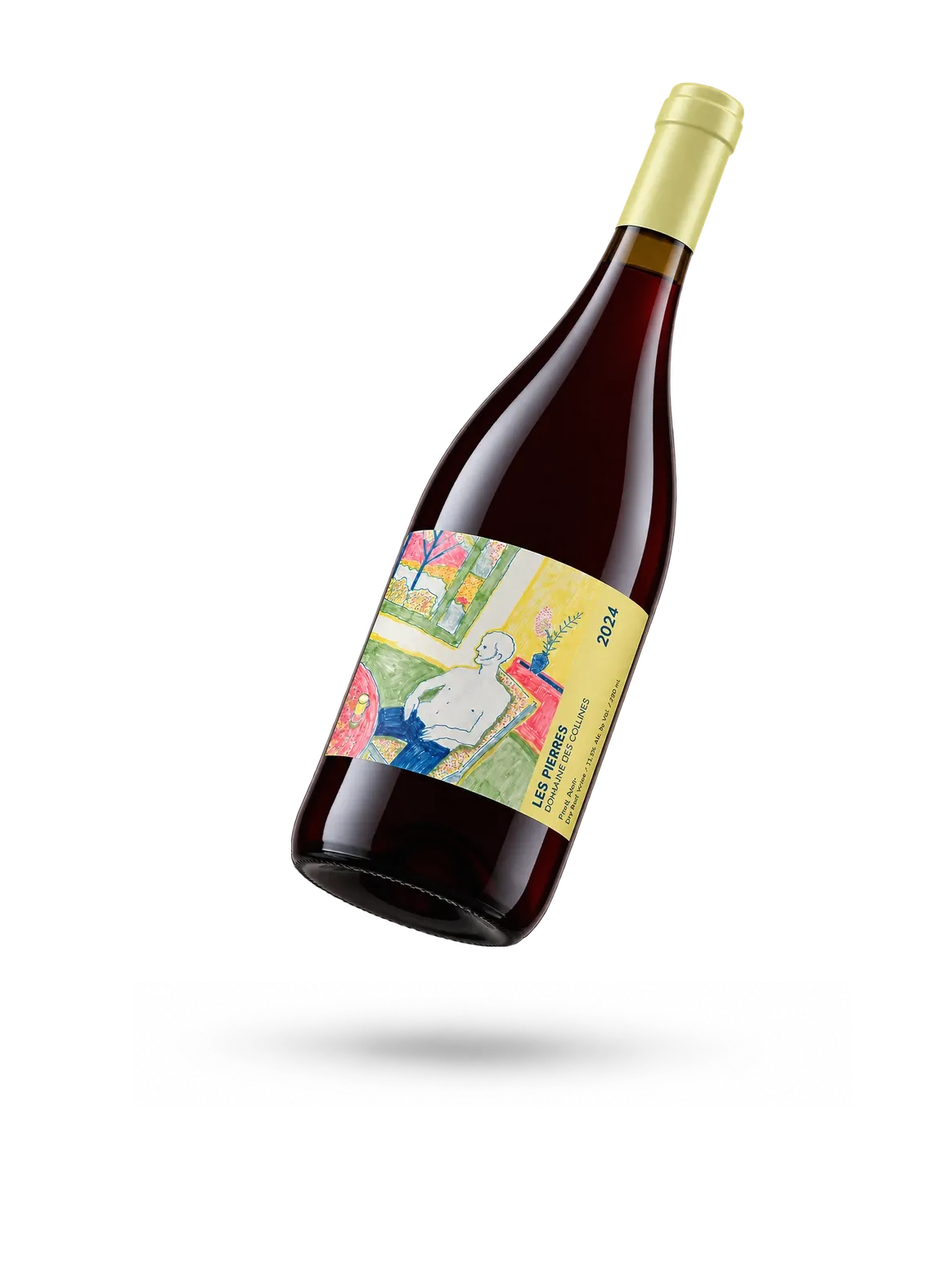
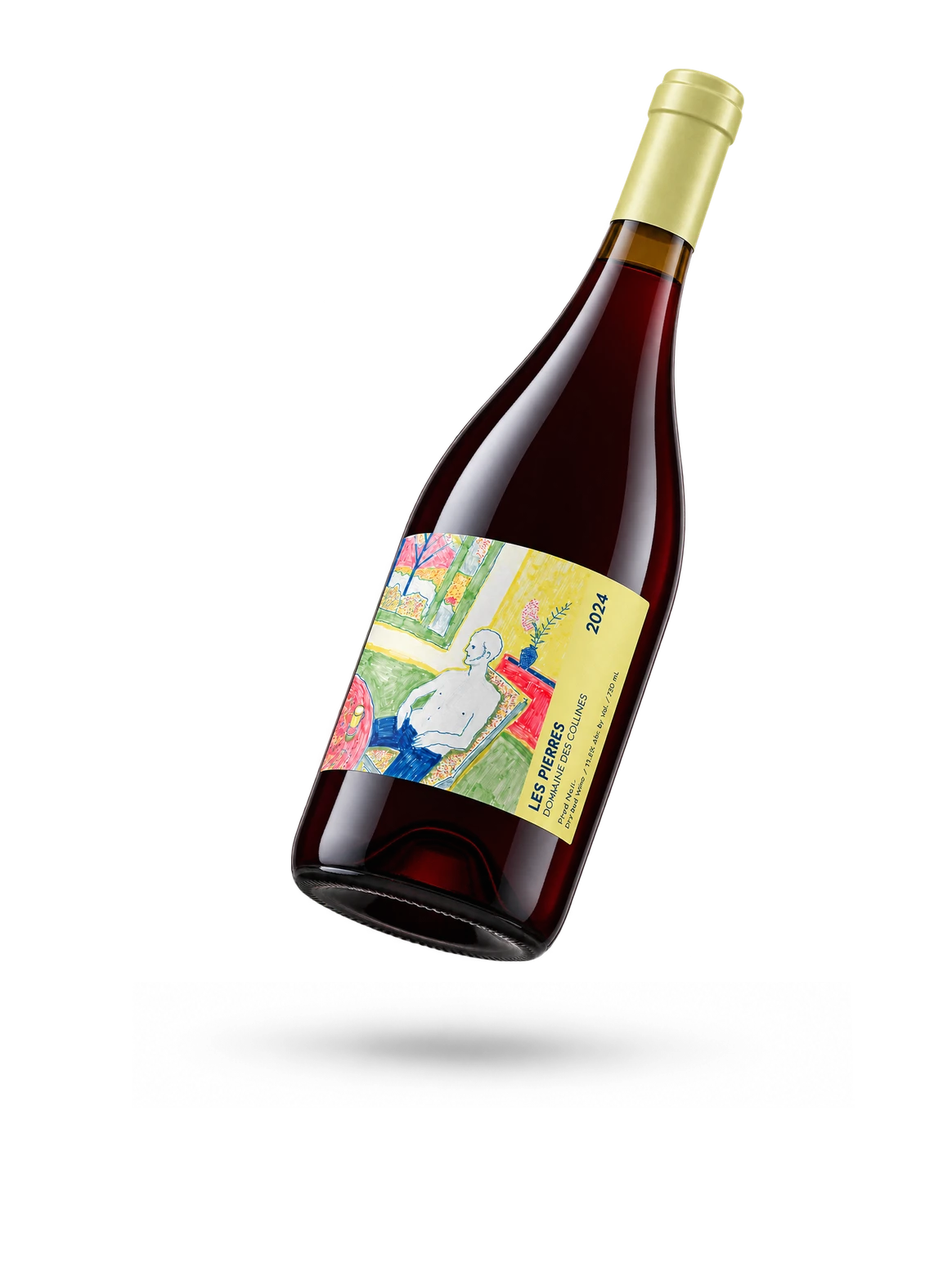
Cover bottles turned like the original and sliding over the corner; Inspired by on the cover; one smaller carousel arrow everywhere; horses carousel centred with a row of picks and a roulette dice; gallery rings fixed

Changed region(s): [[0.3093, 0.0308, 0.8041, 0.7712]]

diff --git a/src/app/page.tsx b/src/app/page.tsx
@@ -526,19 +526,6 @@ async function groundOf(url: string): Promise<string> {
   });
 }
 
-/* the dice's throws reach the LATEST taste page (the roll itself was set
-   going by an earlier render, which knows an older ring) — 2026-09-30 */
-function TasteThrow({ onThrow }: { onThrow: () => void }) {
-  const ref = useRef(onThrow);
-  ref.current = onThrow;
-  useEffect(() => {
-    const h = () => ref.current();
-    document.addEventListener("nui-taste-throw", h);
-    return () => document.removeEventListener("nui-taste-throw", h);
-  }, []);
-  return null;
-}
-
 export default function NewUI() {
   const [page, setPage] = useState<PageKey>("welcome");
   /* dev aid: /?page=bottle jumps straight to a page (no generation needed) */
@@ -2886,6 +2873,19 @@ const sleep = (ms: number) => new Promise((r) => setTimeout(r, ms));
       </button>
     );
   };
+  /* 2026-09-30 (owner): ONE arrow for every carousel — the labels page's,
+     30 % smaller (17.64 × 23.52) — placed by its TIP, so a carousel's two
+     tips stand the same distance from its middle */
+  const carArrow = (lab: string, dir: -1 | 1, tipX: number, cy: number, onClick: () => void) => {
+    const k = 0.98, w = 18 * k, h = 22 * k, sx = tipX - (dir < 0 ? 5 : 13) * k;
+    return (
+      <button key={lab} aria-label={lab} onClick={onClick}
+        style={{ ...px(sx - 13, cy - 30, w + 26, 60), ...ghost, pointerEvents: "auto", zIndex: 12, display: "flex", alignItems: "center", justifyContent: "center", cursor: "pointer" }}>
+        <svg viewBox="0 0 18 22" width={w} height={h} style={{ overflow: "visible" }}><polyline points={dir < 0 ? "13,3 5,11 13,19" : "5,3 13,11 5,19"} fill="none" stroke="#111" strokeWidth="1.6" /></svg>
+      </button>
+    );
+  };
+  const ARROW_OUT = 47.6;   /* a page-wide carousel's tips stand this far outside the margins */
   const cross = (cx: number, cy: number, key: string, thick = false) => (
     /* thick arms = 33px, matching the baked st14 pluses (532.06→565.02).
        Round 85 #7: hairline arms on the half-pixel, crisp, so the plus
@@ -3053,6 +3053,9 @@ const sleep = (ms: number) => new Promise((r) => setTimeout(r, ms));
       <span key={k} style={{ position: "absolute", left: 0, top: 0, width: W, height: H, pointerEvents: "none", transformOrigin: `${B0}px ${BY}px`, transform: `translateX(${137.14 - B0}px) scale(${BS})` }}>{kids}</span>
     );
     const cf = CP.front;
+    /* a long idea is set a little smaller, so it and "Inspired by" keep clear of the details */
+    const visLong = (lang === "ge" ? CP.visionGe : CP.vision).length > (lang === "ge" ? 190 : 200);
+    const visFs = lang === "ge" ? (visLong ? 7.1 : 7.9) : (visLong ? 8.1 : 8.99), visLh = lang === "ge" ? (visLong ? 8.7 : 9.6) : (visLong ? 9.7 : 10.79);
     const DETAILS: [string, string][] = ([
       ["Producer:", cf.producer], ["Wine Name:", cf.wine], ["Vintage:", cf.vintage], ["Grape Variety:", cf.grape],
       ["Region, Country:", cf.regionCountry], ["Special mention:", cf.special], ["Sweetness:", cf.sweetness], ["Colour:", cf.colour],
@@ -3077,7 +3080,9 @@ const sleep = (ms: number) => new Promise((r) => setTimeout(r, ms));
         </svg>
         {/* the Georgian story runs longer — set a touch smaller so it keeps the
             same air above the details as the English */}
-        <span style={{ ...px(152.6, baseTop(381.07, lang === "ge" ? 7.9 : 8.99), 222, 58), font: `${lang === "ge" ? 7.9 : 8.99}px ${HNW}`, lineHeight: lang === "ge" ? "9.6px" : "10.79px", color: "#000" }}>{lang === "ge" ? CP.visionGe : CP.vision}</span>
+        <span style={{ ...px(152.6, baseTop(381.07, lang === "ge" ? 7.9 : 8.99), 222, 58), font: `${visFs}px ${HNW}`, lineHeight: `${visLh}px`, color: "#000" }}>{lang === "ge" ? CP.visionGe : CP.vision}
+          {/* 2026-09-30 (owner): whose style inspired the chosen label */}
+          <span style={{ display: "block", marginTop: lang === "ge" ? 2 : 3, fontStyle: "italic" }}><b style={{ fontStyle: "normal" }}>{t("Inspired by:")}</b> {lang === "ge" ? ARTIST_GE[CP.artists[CP.chosen]] || CP.artists[CP.chosen] : CP.artists[CP.chosen]}</span></span>
         {DETAILS.map(([k, v], i) => (
           <span key={"hd" + i}>
             <span style={{ ...px(152.6, baseTop(445.44 + i * 9, 6.59), 60, 9), font: `700 6.59px ${HNW}`, lineHeight: "6.59px", color: "#000", whiteSpace: "nowrap" }}>{t(k)}</span>
@@ -3223,12 +3228,7 @@ const sleep = (ms: number) => new Promise((r) => setTimeout(r, ms));
         const cur = n ? ((galIdx % n) + n) % n : 0;
         const nameOf = (nm: string) => (lang === "ge" ? ARTIST_GE[nm] || nm : nm);
         const toggle = (nm: string | null) => { setGalIdx(0); setGalPick((p2) => (nm === null ? [] : p2.includes(nm) ? p2.filter((x) => x !== nm) : [...p2, nm])); };
-        const ring = (on: boolean) => (
-          <svg width="13" height="13" viewBox="0 0 13 13" style={{ flex: "none", position: "relative", top: 1.5 }}>
-            <circle cx="6.5" cy="6.5" r="5.9" fill="none" stroke="#111" strokeWidth="1.2" />
-            {on && <circle cx="6.5" cy="6.5" r="3.3" fill="#111" />}
-          </svg>
-        );
+        const ring = (on: boolean) => <span style={{ position: "relative", top: 1 }}>{ringSvg(14, on, { stroke: 1.3, dot: 6.5 })}</span>;
         const chip = (label: string, on: boolean, onClick: () => void, key: string) => (
           <button key={key} onClick={onClick} style={{ ...ghost, pointerEvents: "auto", display: "flex", alignItems: "center", columnGap: 7, font: `${on ? 700 : 400} 14px/14px ${HNW}`, color: "#111", whiteSpace: "nowrap", textTransform: "none", cursor: "pointer" }}>
             {ring(on)}{label}
@@ -3258,12 +3258,8 @@ const sleep = (ms: number) => new Promise((r) => setTimeout(r, ms));
             })}
           </div>
           {/* the arrows as big as the labels page's, where they stand there (owner, 2026-09-30) */}
-          {n > 1 && ([["previous image", L - 48, "13,3 5,11 13,19", -1], ["next image", R + 48 - 12, "5,3 13,11 5,19", 1]] as const).map(([lab, x, pts, d]) => (
-            <button key={lab} aria-label={lab} onClick={() => setGalIdx(cur + d)}
-              style={{ ...px(x - 30 + 6, MID - 36, 60, 72), ...ghost, pointerEvents: "auto", zIndex: 12, display: "flex", alignItems: "center", justifyContent: "center", cursor: "pointer" }}>
-              <svg viewBox="0 0 18 22" width="25.2" height="33.6" style={{ overflow: "visible" }}><polyline points={pts} fill="none" stroke="#111" strokeWidth="1.6" /></svg>
-            </button>
-          ))}
+          {n > 1 && carArrow("previous image", -1, L - ARROW_OUT, MID, () => setGalIdx(cur - 1))}
+          {n > 1 && carArrow("next image", 1, R + ARROW_OUT, MID, () => setGalIdx(cur + 1))}
           {cap && (
             <span key={"gcap" + cap.src} style={{ ...px(L, baseTop(TOP + SIZE + 22, 13), R - L, 16), font: `13px ${HNW}`, lineHeight: "13px", color: "#111", textAlign: "center", display: "block", whiteSpace: "nowrap", animation: `nuiFadeIn 400ms ${EASE} both` }}>
               {cap.artist ? (<>{t("Inspired by:")} <b>{nameOf(cap.artist)}</b> · </>) : null}{cap.wine}
@@ -3330,27 +3326,34 @@ const sleep = (ms: number) => new Promise((r) => setTimeout(r, ms));
          spins to the right and throws out one horse, a second, a third,
          then slows to a stop — about four seconds. */
       case "taste": {
+        /* 2026-09-30 (owner, later): the carousel CENTRED on the page; the
+           chosen three in a row under "Roll the dice", centred, each with an
+           X (the site's plus turned 45°) that sends it back into the middle
+           of the ring. The dice are a ROULETTE: the ring speeds up, spins
+           and slows to a stop on a random horse — the visitor picks it. */
         const byId = new Map(painters.filter((a) => a.horse).map((a) => [a.id, a]));
         const need = Math.min(3, byId.size);
         const ring = (tasteRing || []).filter((id) => byId.has(id) && !pickArtists.includes(id));
         const n = ring.length;
         const cur = n ? ((tasteCur % n) + n) % n : 0;
-        const L = 137.14, R = 1302.86, X1 = L + (R - L) * 0.75;
-        const CW = 420, CH = 280, CX = (L + X1) / 2, TOP = 206, MIDY = TOP + CH / 2;
+        const L = 137.14, R = 1302.86, CX = W / 2;
+        const CW = 375, CH = 250, TOP = 172, MIDY = TOP + CH / 2;
         const centre = { x: CX - CW / 2, y: TOP, w: CW, h: CH };
-        const SW = 225, SH = 150, SX = X1 + 20 + (R - X1 - 20 - SW) / 2;
-        const slot = (i: number) => ({ x: SX, y: 196 + i * (SH + 24), w: SW, h: SH });
+        const SEL_BASE = TOP + CH + 30;
+        const DICE = { y: SEL_BASE + 18, h: 34.3, w: 210 };
+        const SW = 165, SH = 110, GAP = 30, SY = DICE.y + DICE.h + 26;
+        const slot = (i: number) => ({ x: CX - (need * SW + (need - 1) * GAP) / 2 + i * (SW + GAP), y: SY, w: SW, h: SH });
+        const MSG_BASE = (SY + SH + PROG_Y - NEXT_R) / 2 + 4;
         const flyInto = (el: HTMLElement, from: { x: number; y: number; w: number; h: number }, to: { x: number; y: number; w: number; h: number }, ms = 640) => {
           el.animate([{ transform: `translate(${from.x - to.x}px, ${from.y - to.y}px) scale(${from.w / to.w})`, transformOrigin: "0 0" }, { transform: "translate(0, 0) scale(1)", transformOrigin: "0 0" }], { duration: ms, easing: EASE });
         };
-        const pickMid = (rolling = false) => {
+        const pickMid = () => {
           const id = ring[cur];
-          if (!id || pickArtists.length >= need) return;
+          if (!id || pickArtists.length >= need || tasteRolling.current) return;
           setTasteWarn(false);
           tasteFly.current["slot:" + id] = centre;
           setPickArtists((pa) => (pa.includes(id) || pa.length >= need ? pa : [...pa, id]));
           setTasteRing((r) => (r || []).filter((x) => x !== id));
-          if (!rolling) setTasteCur((c) => c);
         };
         const unpick = (id: string, from: { x: number; y: number; w: number; h: number }) => {
           if (tasteRolling.current) return;
@@ -3360,31 +3363,20 @@ const sleep = (ms: number) => new Promise((r) => setTimeout(r, ms));
           setTasteRing((r) => { const rr = (r || []).filter((x) => x !== id && !pickArtists.includes(x)); const at = rr.length ? ((cur % rr.length) + rr.length) % rr.length : 0; return [...rr.slice(0, at), id, ...rr.slice(at)]; });
           setTasteCur(cur);
         };
-        /* the dice: step times speed up, hold while three are thrown out,
-           then slow down — the ring turns to the right (the one on the left
-           comes into the middle) */
+        /* the roulette: every step's time on one smooth curve — long at the
+           ends, short in the middle (1 − sin)² — so it eases in and out; the
+           number of steps is random, so is the horse it stops on */
         const roll = async () => {
           if (tasteRolling.current || n < 2) return;
           tasteRolling.current = true;
           setTasteWarn(false);
-          if (pickArtists.length >= need) {
-            setTasteRing((r) => [...(r || []), ...pickArtists.filter((x) => !(r || []).includes(x))]);
-            setPickArtists([]);
-            await sleep(60);
+          const N = 18 + Math.floor(Math.random() * n);
+          for (let i = 0; i < N; i++) {
+            const tt = (i + 0.5) / N, ms = Math.round(85 + 520 * Math.pow(1 - Math.sin(Math.PI * tt), 2));
+            setTasteSpin(i === N - 1 ? ms * 1.6 : -ms);   /* the last step settles, eased out */
+            setTasteCur((c) => c - 1);
+            await sleep(i === N - 1 ? ms * 1.6 : ms);
           }
-          const steps = [360, 280, 215, 170, 135, 110, 95];
-          const hold = 88, slowDown = [100, 125, 160, 210, 275, 360, 460];
-          const turn = async (ms: number) => { setTasteSpin(ms); setTasteCur((c) => c - 1); await sleep(ms); };
-          for (const ms of steps) await turn(ms);
-          const want = need - (pickArtists.length >= need ? 0 : pickArtists.length);
-          for (let k = 0; k < want; k++) {
-            for (let j = 0; j < 3; j++) await turn(hold);
-            /* the horse in the middle is thrown out, to the right */
-            setTasteSpin(hold);
-            document.dispatchEvent(new CustomEvent("nui-taste-throw"));
-            await sleep(hold);
-          }
-          for (const ms of slowDown) await turn(ms);
           setTasteSpin(0);
           tasteRolling.current = false;
         };
@@ -3394,60 +3386,62 @@ const sleep = (ms: number) => new Promise((r) => setTimeout(r, ms));
           if (Math.abs(rel) > 3) return null;
           const a = byId.get(id)!;
           const ar = Math.abs(rel);
-          const scale = ar === 0 ? 1 : ar === 1 ? 0.6 : ar === 2 ? 0.38 : 0.25;
-          const dx = rel === 0 ? 0 : Math.sign(rel) * (ar === 1 ? 300 : ar === 2 ? 455 : 560);
-          const ms = tasteSpin || 520, ease = tasteSpin ? "linear" : EASE;
+          const scale = ar === 0 ? 1 : ar === 1 ? 0.62 : ar === 2 ? 0.4 : 0.26;
+          const dx = rel === 0 ? 0 : Math.sign(rel) * (ar === 1 ? 320 : ar === 2 ? 480 : 575);
+          /* while spinning each step glides linearly; the last one settles */
+          const ms = tasteSpin ? Math.abs(tasteSpin) : 520, ease = tasteSpin < 0 ? "linear" : tasteSpin > 0 ? "cubic-bezier(0.22, 1, 0.36, 1)" : EASE;
           return (
             /* eslint-disable-next-line @next/next/no-img-element */
             <img key={"th" + id} src={a.horse} alt="" draggable={false}
-              ref={(el) => { const f = tasteFly.current["ring:" + id]; if (el && f) { delete tasteFly.current["ring:" + id]; flyInto(el, f, centre); } }}
+              ref={(el) => { const f = tasteFly.current["ring:" + id]; if (el && f) { delete tasteFly.current["ring:" + id]; flyInto(el, { ...f, x: f.x - L + 0, y: f.y - TOP }, { x: centre.x - L, y: 0, w: CW, h: CH }); } }}
               onClick={() => { if (tasteRolling.current) return; if (ar === 0) pickMid(); else setTasteCur(i); }}
               style={{ position: "absolute", left: centre.x - L, top: 0, width: CW, height: CH, objectFit: "contain", zIndex: 10 - ar,
                 transform: `translate(${dx}px, 0) scale(${scale})`, filter: ar ? `blur(${ar === 1 ? 2 : 3.5}px)` : "none", opacity: ar === 0 ? 1 : ar === 1 ? 0.55 : ar === 2 ? 0.28 : 0,
                 transition: `transform ${ms}ms ${ease}, filter ${ms}ms ${ease}, opacity ${ms}ms ${ease}`, cursor: "pointer", userSelect: "none" }} />
           );
         });
-        const SEL_BASE = TOP + CH + 36;
-        const DICE = { y: SEL_BASE + 22, h: 34.3, w: 210 };
-        const MSG_BASE = (DICE.y + DICE.h + PROG_Y) / 2 + 4;
         return (<>
           {/* centred across the page (owner, 2026-09-29) */}
           <span style={{ ...px(0, baseTop(149.08, 19), W, 22), font: `700 19px ${HNW}`, lineHeight: "19px", color: INK, whiteSpace: "nowrap", textAlign: "center", display: "block" }}>{t("BEFORE WE START, SELECT 3 HORSES YOU LIKE.")}</span>
-          {!inSlide && <TasteThrow onThrow={() => pickMid(true)} />}
-          <div style={{ ...px(L, TOP, X1 - L, CH), overflow: "hidden" }}>{items}</div>
-          {n > 1 && ([["previous horse", L - 48, "13,3 5,11 13,19", 1], ["next horse", X1 + 2, "5,3 13,11 5,19", -1]] as const).map(([lab, x, pts, d]) => (
-            <button key={lab} aria-label={lab} onClick={() => { if (!tasteRolling.current) setTasteCur(cur - d); }}
-              style={{ ...px(x - 30 + 6, MIDY - 36, 60, 72), ...ghost, pointerEvents: "auto", zIndex: 12, display: "flex", alignItems: "center", justifyContent: "center", cursor: "pointer" }}>
-              <svg viewBox="0 0 18 22" width="25.2" height="33.6" style={{ overflow: "visible" }}><polyline points={pts} fill="none" stroke="#111" strokeWidth="1.6" /></svg>
-            </button>
-          ))}
+          <div style={{ ...px(L, TOP, R - L, CH), overflow: "hidden" }}>{items}</div>
+          {n > 1 && carArrow("previous horse", -1, L - ARROW_OUT, MIDY, () => { if (!tasteRolling.current) setTasteCur(cur - 1); })}
+          {n > 1 && carArrow("next horse", 1, R + ARROW_OUT, MIDY, () => { if (!tasteRolling.current) setTasteCur(cur + 1); })}
           {/* ○ Select — and how many of three are chosen */}
-          <button onClick={() => { if (!tasteRolling.current) pickMid(); }} disabled={pickArtists.length >= need} aria-label="select the horse in the middle"
+          <button onClick={pickMid} disabled={pickArtists.length >= need} aria-label="select the horse in the middle"
             style={{ ...px(CX - 60, SEL_BASE - 20, 120, 29), ...ghost, pointerEvents: "auto", cursor: pickArtists.length >= need ? "default" : "pointer", textTransform: "none", opacity: pickArtists.length >= need ? 0.35 : 1, transition: `opacity 240ms ${EASE}` }}>
             <span style={{ position: "absolute", left: 6, top: 5.5 }}>{ringSvg(18, false, { stroke: 2, dot: 7.5 })}</span>
             <span style={{ position: "absolute", left: 33, top: baseTop(SEL_BASE, 15) - (SEL_BASE - 20), font: `700 15px/15px ${HNW}`, color: INK, whiteSpace: "nowrap" }}>
               {t("Select")} <span style={{ fontWeight: 400, color: "#8a887e" }}>{pickArtists.length}/{need}</span></span>
           </button>
-          {/* Roll the dice */}
+          {/* Roll the dice — the roulette */}
           <button onClick={roll} style={{ ...px(CX - DICE.w / 2, DICE.y, DICE.w, DICE.h), cursor: "pointer", font: `700 ${BAR_FS}px ${HNW}`, letterSpacing: 0.3, background: "#fff", color: "#111", border: "1px solid #111", boxSizing: "border-box", display: "flex", alignItems: "center", justifyContent: "center", paddingBottom: 3, textTransform: "uppercase", pointerEvents: "auto" }}>
             {t("Roll the dice")}</button>
-          {pickArtists.length < need && (
-            <span style={{ ...px(L, baseTop(MSG_BASE, 13), X1 - L, 16), font: `13px ${HNW}`, lineHeight: "13px", color: tasteWarn ? BAR_RED : "#6b6a60", textAlign: "center", display: "block" }}>
-              {need > 1 ? t("Select 3 horses to continue.") : t("Select a horse to continue.")}</span>
-          )}
-          {/* the chosen ones, top to bottom, in the free quarter */}
+          {/* the chosen ones, in a row, centred */}
           {Array.from({ length: need }, (_, i) => {
             const sl = slot(i), id = pickArtists[i], a = id ? byId.get(id) : undefined;
             return a ? (
-              /* eslint-disable-next-line @next/next/no-img-element */
-              <img key={"ts" + id} src={a.horse} alt="" draggable={false} title={t("Click to put it back")}
+              <span key={"ts" + id}
                 ref={(el) => { const f = tasteFly.current["slot:" + id]; if (el && f) { delete tasteFly.current["slot:" + id]; flyInto(el, f, sl, 700); } }}
-                onClick={() => unpick(id, sl)}
-                style={{ ...px(sl.x, sl.y, sl.w, sl.h), objectFit: "contain", cursor: "pointer", pointerEvents: "auto", zIndex: 20 }} />
+                style={{ ...px(sl.x, sl.y, sl.w, sl.h), zIndex: 20 }}>
+                {/* eslint-disable-next-line @next/next/no-img-element */}
+                <img src={a.horse} alt="" draggable={false} style={{ position: "absolute", inset: 0, width: "100%", height: "100%", objectFit: "contain", display: "block" }} />
+                {/* the site's plus, turned 45° — sends it back */}
+                <button aria-label={t("Click to put it back")} onClick={() => unpick(id, sl)}
+                  style={{ position: "absolute", right: -12, top: -12, width: 24, height: 24, ...ghost, pointerEvents: "auto", cursor: "pointer", display: "flex", alignItems: "center", justifyContent: "center" }}>
+                  <svg viewBox="0 0 18 18" width="14" height="14" style={{ transform: "rotate(45deg)" }}>
+                    <line x1="9" y1="0" x2="9" y2="18" stroke="#000" strokeWidth="1.3" />
+                    <line x1="0" y1="9" x2="18" y2="9" stroke="#000" strokeWidth="1.3" />
+                  </svg>
+                </button>
+              </span>
             ) : (
               <span key={"tse" + i} style={{ ...px(sl.x, sl.y, sl.w, sl.h), border: "1px dashed #C9C7BF", boxSizing: "border-box", display: "flex", alignItems: "center", justifyContent: "center", font: `13px ${HNW}`, color: "#C9C7BF" }}>{i + 1}</span>
             );
           })}
+          {pickArtists.length < need && (
+            <span style={{ ...px(L, baseTop(MSG_BASE, 13), R - L, 16), font: `13px ${HNW}`, lineHeight: "13px", color: tasteWarn ? BAR_RED : "#6b6a60", textAlign: "center", display: "block" }}>
+              {need > 1 ? t("Select 3 horses to continue.") : t("Select a horse to continue.")}</span>
+          )}
         </>);
       }
 
@@ -3873,12 +3867,8 @@ const sleep = (ms: number) => new Promise((r) => setTimeout(r, ms));
         /* 2026-09-28 (owner #6): the arrows three times bigger — size and
            stroke together (the stroke scales with the viewBox) */
         /* (later, owner): 30 % smaller again, and a little further out */
-        const chevron = (lab: string, x: number, pts: string, go2: number) => (
-          <button key={lab} aria-label={lab} onClick={() => showSet(go2)}
-            style={{ ...px(x - 30 + 6, (AREA_TOP + AREA_BOT) / 2 - 36, 60, 72), ...ghost, zIndex: 12, display: "flex", alignItems: "center", justifyContent: "center" }}>
-            <svg viewBox="0 0 18 22" width="25.2" height="33.6" style={{ overflow: "visible" }}><polyline points={pts} fill="none" stroke="#111" strokeWidth="1.6" /></svg>
-          </button>
-        );
+        const chevron = (lab: string, dir: -1 | 1, go2: number) =>
+          carArrow(lab, dir, dir < 0 ? 137.14 - ARROW_OUT : 1302.86 + ARROW_OUT, (AREA_TOP + AREA_BOT) / 2, () => showSet(go2));
         /* 2026-09-30 (owner): A RUN IN PROGRESS — straight on this page, each
            column its own wine glass (the marketing boxes' loader) until its
            label lands, then the label fades in. The box is the size the
@@ -3952,8 +3942,8 @@ const sleep = (ms: number) => new Promise((r) => setTimeout(r, ms));
               furniture, deactivated and grey */}
           {!gen && dreams.length === 0 && OPT_FRAMES.map((fr, fi) => selectCtl(fr.x + OPT_W / 2, SEL_CY, false, null, "grey" + fi))}
           {/* the arrows between the sets, left and right of the labels */}
-          {!gen && sets.length > 1 && setIdx > 0 && chevron("previous versions", OPT_FRAMES[0].x - 48, "13,3 5,11 13,19", setIdx - 1)}
-          {!gen && sets.length > 1 && setIdx < sets.length - 1 && chevron("next versions", OPT_FRAMES[2].x + OPT_W + 48 - 12, "5,3 13,11 5,19", setIdx + 1)}
+          {!gen && sets.length > 1 && setIdx > 0 && chevron("previous versions", -1, setIdx - 1)}
+          {!gen && sets.length > 1 && setIdx < sets.length - 1 && chevron("next versions", 1, setIdx + 1)}
           {/* 2026-09-28 (owner): NEW TRY under the middle label, where NEW
               VERSIONS stood — black while a try is waiting, white when the
               next one must be bought; the line under it says which */}
@@ -4968,12 +4958,8 @@ const sleep = (ms: number) => new Promise((r) => setTimeout(r, ms));
           </div>
           {/* the chevrons */}
           {/* each chevron's TIP on its edge (the tip sits 3.33 inside the 12 px mark) */}
-          {([["prev slide", ARR_L - 3.33, "13,3 5,11 13,19"], ["next slide", ARR_R - 12 + 3.33, "5,3 13,11 5,19"]] as const).map(([lab, x, pts]) => (
-            <button key={lab} aria-label={lab} onClick={() => setCarIdx((c) => (c + (lab === "next slide" ? 1 : slides.length - 1)) % slides.length)}
-              style={{ ...px(x - 16, CAR_MID - 22, 44, 44), ...ghost, zIndex: 12, display: "flex", alignItems: "center", justifyContent: "center" }}>
-              <svg viewBox="0 0 18 22" width="12" height="16"><polyline points={pts} fill="none" stroke="#111" strokeWidth="1.6" /></svg>
-            </button>
-          ))}
+          {carArrow("prev slide", -1, ARR_L, CAR_MID, () => setCarIdx((c) => (c + slides.length - 1) % slides.length))}
+          {carArrow("next slide", 1, ARR_R, CAR_MID, () => setCarIdx((c) => (c + 1) % slides.length))}
           {/* 2026-09-23 (owner): "I agree to the Terms & Conditions" at the
               bottom right of the folders' side, its right edge on the page
               margin, on the rule's foot. Its ring is our loader's wine glass

diff --git a/CONTINUE-HERE.md b/CONTINUE-HERE.md
@@ -332,6 +332,7 @@ the server's data/layout-edits — pull them before reading.
 - NEW ARTIST: GRIGOL TATISHVILI (owner, 2026-09-30) — the 1899 Deda Ena engravings (Oskar Schmerling's drawings cut in wood by Grigol Tatishvili), from ARTISTS/Deda Ena (45 screenshots; the book's portrait of Tsar Nicholas II LEFT OUT — a political portrait must never be learned). 44 works, cleaned (captions/signatures on 22, 36, 37, 38, 40), LoRA GRTAT, bio EN/GE per his story (Deda Ena = Gogebashvili's primer every Georgian learns the language from), consent: public domain, page 12, horseOrder 12 (horse v1; v2 in ~/Desktop/8K-horses/grigol-tatishvili), no portrait (work1 = the lion). ALWAYS LIGHT (his rule): new profile field `paper` ("white or light warm cream paper") — hybrid.ts asks every picture for it (never a dark/coloured field, whatever the story), names it round floating drawings/panels and in the retry, and skips the ground-variety rotation. Test (night scene): ground #fafafa, moon drawn, sky paper.
 - (owner, 2026-09-30, five) (1) cover bottles: the ORIGINAL front bottle's soft shadow (everything below its base in home/bottle-front.webp) now lies under every new front bottle; the new bottles are fitted to the original's BOTTLE box (alpha > 200, no longer the shadow too); the back bottles are blurred like the original (sigma 4.6 on the 2× canvas). (2) Luce di Sera's slimmer Bordeaux slid right 58 px so it covers the first market picture's bottom-left corner as far as the original bottle reaches (the rule: reach the original's own reach at that row; the Burgundies moved 0–3 px). (3) STANDING RULE: never say a label is an artist's work — "Inspired by: X" / "ინსპირაცია: X" everywhere: labels page heads, gallery caption, details Style menu ("Inspired by:"), artist page button ("Create a label inspired by Mariam" / „შექმენი ეტიკეტი — ინსპირაცია: მარიამ"), its toggle ("Labels inspired by Mariam" / „ეტიკეტები მისი ინსპირაციით"), the guide notes (horses, empty idea, painting, three designs) and the abstraction line; the Georgian name on the artist page now in Georgian. "Original art" stays (it IS their work). (4) Covers: every one is shown once before any comes round again (localStorage nui-cover-seen; a new round never opens on the last shown). (5) Descriptions match colour: TSINANDALI (amber) and Mzeo (rosé) rewritten — in COVERS, their back-label pictures (regenerated through live /api/back-label, same colours/QR/barcode) and their product pages (wqo2bp5f, mzeocov01 description updated in the DB, landing screenshots redone).
 - (owner, 2026-09-30, six) (1) TASTE PAGE = ONE CAROUSEL (ring manner) over the left three quarters (margin → 137.14 + ¾·1165.72), chevrons at its ends; under it centred "○ Select n/3" (picks the middle horse; clicking the middle horse picks too), "ROLL THE DICE" / „შემომთავაზე"; the right quarter holds three slots top to bottom (dashed until filled); a pick flies middle → slot (Web Animations, like the folder flights), the next horse takes the middle; a picked horse clicked flies back into the MIDDLE. State: tasteRing (random order once per load, picks removed), tasteCur, tasteSpin. DICE: the ring turns right with step times 360→95 ms, then three throws (3 quick steps each, the middle horse out to the next slot — dispatched as a DOM event `nui-taste-throw` to the latest render via <TasteThrow>), then 100→460 ms to a stop; ≈4.1 s. If three were already picked the dice start over. Old grid/pages/tastePg left in state but unused. (2) "Select 3 horses to continue." centred between the dice button and the bar (grey; red after a refused press). (3) see 1. (4) RED BUTTON RESTS (grey #C9C7BF, no hover class, no pointer, no nudge) — taste < 3 horses; vision with nothing typed/uploaded (idea, sketch or any field); backdetails with nothing (description, any field, GTIN, QR choice or a market); the tries page as before; bottle always red; never in the walkthrough. (5) GS1 registration link removed. (6) "Preparing your files…" red, set as a <button> like the station names so it lands on their baseline.
+- (owner, 2026-09-30, later) COVER BOTTLES repainted in the original's TURN (label's right edge wrapping away, a strip of bare glass beside it — gpt-image with the pack shot + the original as pose ref), fitted with the original's shadow, and EVERY front bottle (TSINANDALI's original too, 19 px) slid right until its glass passes the first market picture's bottom-left corner by 14 px on the 40 rows above it. Cover idea box: "Inspired by: <chosen label's artist>" under the idea (long ideas set smaller: > 200 chars EN / 190 GE). Gallery filter rings = the site's ringSvg (no shaved edges). ONE CAROUSEL ARROW (carArrow): the labels page's chevron 30 % smaller (17.64 × 23.52), placed by its TIP — page-wide carousels at margin ∓ 47.6 (labels page, gallery, horses), the Final Pack at ARR_L / ARR_R; every pair symmetric about its carousel's middle. HORSES PAGE: carousel centred on the page (375 × 250), Select n/3 + ROLL THE DICE under it, the three picks in a centred ROW under the dice (165 × 110), each with an X (the site's plus turned 45°) that sends it back into the ring's middle; "Select 3 horses…" between the row and the bar. The dice = a ROULETTE only (no picks): N = 18 + random(n) steps, each step's time 85 + 520·(1 − sin πt)² ms (eases in and out), the last step eased out ×1.6 — lands on a random horse.
 
 **2026-09-29 — RATI BAKRADZE added** (living artist, consent VERBAL per the owner's standing word; written agreement before selling): 46 screenshots → dropped a duplicate (#28/#32) and two with painted words ("KIDS", "we are friends"); cleaned (Instagram UI, signatures); 2 still lettered set aside → 41 works, LoRA RTBKR. No public bio found (web search empty) — a DRAFT bio from the works only, marked as draft, EN/GE. No portrait yet (first work stands in). Page 9 (Schmerling 10), horse option 2 (black horse), horseOrder 10. Tests in ~/Desktop/8K-sheet-test/new-artists.
 
